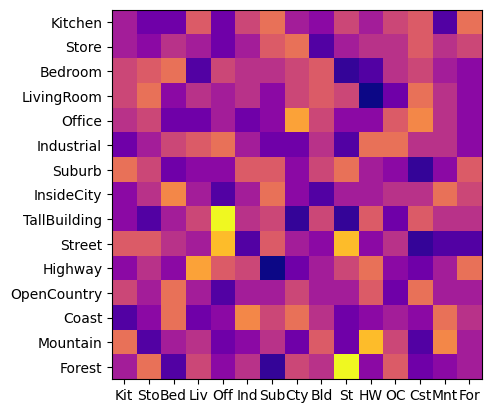
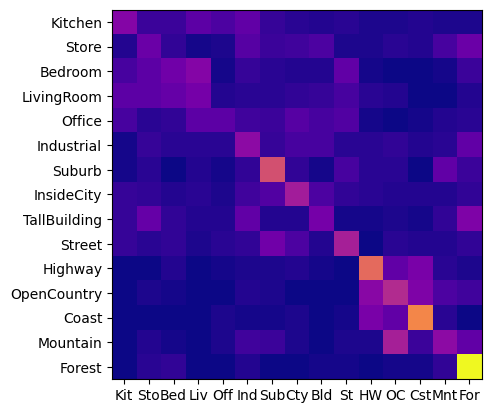
implmentation of KNN and get_bag_of_words

diff --git a/results_webpage/index.html b/results_webpage/index.html
@@ -36,7 +36,7 @@ h1 {
 <img src="confusion_matrix.png">
 
 <br>
-Accuracy (mean of diagonal of confusion matrix) is 0.074
+Accuracy (mean of diagonal of confusion matrix) is 0.309
 <p>
 
 <table border=0 cellpadding=4 cellspacing=1>
@@ -50,183 +50,183 @@ Accuracy (mean of diagonal of confusion matrix) is 0.074
 </tr>
 <tr>
 <td>Kitchen</td>
-<td>0.060</td>
-<td bgcolor=LightBlue><img src="thumbnails/Kitchen_image_0026.jpg" width=75 height=100></td>
-<td bgcolor=LightBlue><img src="thumbnails/Kitchen_image_0054.jpg" width=75 height=57></td>
-<td bgcolor=LightGreen><img src="thumbnails/Kitchen_image_0080.jpg" width=75 height=56></td>
-<td bgcolor=LightGreen><img src="thumbnails/Kitchen_image_0180.jpg" width=75 height=56></td>
-<td bgcolor=LightCoral><img src="thumbnails/Kitchen_image_0075.jpg" width=75 height=75><br><small>Mountain</small></td>
-<td bgcolor=LightCoral><img src="thumbnails/Kitchen_image_0078.jpg" width=75 height=75><br><small>Street</small></td>
-<td bgcolor=#FFBB55><img src="thumbnails/Kitchen_image_0022.jpg" width=75 height=100><br><small>Industrial</small></td>
-<td bgcolor=#FFBB55><img src="thumbnails/Kitchen_image_0029.jpg" width=75 height=100><br><small>Highway</small></td>
+<td>0.210</td>
+<td bgcolor=LightBlue><img src="thumbnails/Kitchen_image_0145.jpg" width=75 height=56></td>
+<td bgcolor=LightBlue><img src="thumbnails/Kitchen_image_0066.jpg" width=75 height=53></td>
+<td bgcolor=LightGreen><img src="thumbnails/Kitchen_image_0071.jpg" width=75 height=57></td>
+<td bgcolor=LightGreen><img src="thumbnails/Kitchen_image_0002.jpg" width=75 height=56></td>
+<td bgcolor=LightCoral><img src="thumbnails/Kitchen_image_0037.jpg" width=75 height=53><br><small>Office</small></td>
+<td bgcolor=LightCoral><img src="thumbnails/Kitchen_image_0062.jpg" width=75 height=75><br><small>Street</small></td>
+<td bgcolor=#FFBB55><img src="thumbnails/Kitchen_image_0104.jpg" width=75 height=49><br><small>Industrial</small></td>
+<td bgcolor=#FFBB55><img src="thumbnails/Kitchen_image_0183.jpg" width=75 height=56><br><small>LivingRoom</small></td>
 </tr>
 <tr>
 <td>Store</td>
-<td>0.050</td>
-<td bgcolor=LightBlue><img src="thumbnails/Store_image_0103.jpg" width=75 height=53></td>
-<td bgcolor=LightBlue><img src="thumbnails/Store_image_0128.jpg" width=75 height=56></td>
-<td bgcolor=LightGreen><img src="thumbnails/Store_image_0060.jpg" width=75 height=100></td>
-<td bgcolor=LightGreen><img src="thumbnails/Store_image_0107.jpg" width=75 height=57></td>
-<td bgcolor=LightCoral><img src="thumbnails/Store_image_0113.jpg" width=75 height=56><br><small>LivingRoom</small></td>
-<td bgcolor=LightCoral><img src="thumbnails/Store_image_0095.jpg" width=75 height=75><br><small>Coast</small></td>
-<td bgcolor=#FFBB55><img src="thumbnails/Store_image_0141.jpg" width=75 height=45><br><small>Highway</small></td>
-<td bgcolor=#FFBB55><img src="thumbnails/Store_image_0114.jpg" width=75 height=56><br><small>Highway</small></td>
+<td>0.160</td>
+<td bgcolor=LightBlue><img src="thumbnails/Store_image_0069.jpg" width=75 height=100></td>
+<td bgcolor=LightBlue><img src="thumbnails/Store_image_0253.jpg" width=75 height=50></td>
+<td bgcolor=LightGreen><img src="thumbnails/Store_image_0114.jpg" width=75 height=56></td>
+<td bgcolor=LightGreen><img src="thumbnails/Store_image_0085.jpg" width=75 height=70></td>
+<td bgcolor=LightCoral><img src="thumbnails/Store_image_0103.jpg" width=75 height=50><br><small>Suburb</small></td>
+<td bgcolor=LightCoral><img src="thumbnails/Store_image_0063.jpg" width=75 height=49><br><small>Bedroom</small></td>
+<td bgcolor=#FFBB55><img src="thumbnails/Store_image_0041.jpg" width=75 height=103><br><small>Forest</small></td>
+<td bgcolor=#FFBB55><img src="thumbnails/Store_image_0086.jpg" width=75 height=51><br><small>Industrial</small></td>
 </tr>
 <tr>
 <td>Bedroom</td>
-<td>0.100</td>
-<td bgcolor=LightBlue><img src="thumbnails/Bedroom_image_0187.jpg" width=75 height=50></td>
-<td bgcolor=LightBlue><img src="thumbnails/Bedroom_image_0184.jpg" width=75 height=56></td>
-<td bgcolor=LightGreen><img src="thumbnails/Bedroom_image_0029.jpg" width=75 height=42></td>
-<td bgcolor=LightGreen><img src="thumbnails/Bedroom_image_0095.jpg" width=75 height=56></td>
-<td bgcolor=LightCoral><img src="thumbnails/Bedroom_image_0096.jpg" width=75 height=75><br><small>TallBuilding</small></td>
-<td bgcolor=LightCoral><img src="thumbnails/Bedroom_image_0058.jpg" width=75 height=75><br><small>OpenCountry</small></td>
-<td bgcolor=#FFBB55><img src="thumbnails/Bedroom_image_0018.jpg" width=75 height=56><br><small>Store</small></td>
-<td bgcolor=#FFBB55><img src="thumbnails/Bedroom_image_0163.jpg" width=75 height=56><br><small>Kitchen</small></td>
+<td>0.170</td>
+<td bgcolor=LightBlue><img src="thumbnails/Bedroom_image_0211.jpg" width=75 height=50></td>
+<td bgcolor=LightBlue><img src="thumbnails/Bedroom_image_0094.jpg" width=75 height=49></td>
+<td bgcolor=LightGreen><img src="thumbnails/Bedroom_image_0170.jpg" width=75 height=61></td>
+<td bgcolor=LightGreen><img src="thumbnails/Bedroom_image_0144.jpg" width=75 height=56></td>
+<td bgcolor=LightCoral><img src="thumbnails/Bedroom_image_0029.jpg" width=75 height=55><br><small>Office</small></td>
+<td bgcolor=LightCoral><img src="thumbnails/Bedroom_image_0084.jpg" width=75 height=61><br><small>Store</small></td>
+<td bgcolor=#FFBB55><img src="thumbnails/Bedroom_image_0019.jpg" width=75 height=56><br><small>TallBuilding</small></td>
+<td bgcolor=#FFBB55><img src="thumbnails/Bedroom_image_0003.jpg" width=75 height=54><br><small>LivingRoom</small></td>
 </tr>
 <tr>
 <td>LivingRoom</td>
-<td>0.070</td>
-<td bgcolor=LightBlue><img src="thumbnails/LivingRoom_image_0006.jpg" width=75 height=50></td>
-<td bgcolor=LightBlue><img src="thumbnails/LivingRoom_image_0280.jpg" width=75 height=56></td>
-<td bgcolor=LightGreen><img src="thumbnails/LivingRoom_image_0074.jpg" width=75 height=56></td>
-<td bgcolor=LightGreen><img src="thumbnails/LivingRoom_image_0058.jpg" width=75 height=56></td>
-<td bgcolor=LightCoral><img src="thumbnails/LivingRoom_image_0038.jpg" width=75 height=75><br><small>TallBuilding</small></td>
-<td bgcolor=LightCoral><img src="thumbnails/LivingRoom_image_0125.jpg" width=75 height=75><br><small>OpenCountry</small></td>
-<td bgcolor=#FFBB55><img src="thumbnails/LivingRoom_image_0110.jpg" width=75 height=57><br><small>Coast</small></td>
-<td bgcolor=#FFBB55><img src="thumbnails/LivingRoom_image_0102.jpg" width=75 height=50><br><small>Suburb</small></td>
+<td>0.180</td>
+<td bgcolor=LightBlue><img src="thumbnails/LivingRoom_image_0085.jpg" width=75 height=50></td>
+<td bgcolor=LightBlue><img src="thumbnails/LivingRoom_image_0031.jpg" width=75 height=50></td>
+<td bgcolor=LightGreen><img src="thumbnails/LivingRoom_image_0131.jpg" width=75 height=60></td>
+<td bgcolor=LightGreen><img src="thumbnails/LivingRoom_image_0142.jpg" width=75 height=56></td>
+<td bgcolor=LightCoral><img src="thumbnails/LivingRoom_image_0176.jpg" width=75 height=100><br><small>Bedroom</small></td>
+<td bgcolor=LightCoral><img src="thumbnails/LivingRoom_image_0162.jpg" width=75 height=50><br><small>Bedroom</small></td>
+<td bgcolor=#FFBB55><img src="thumbnails/LivingRoom_image_0065.jpg" width=75 height=75><br><small>InsideCity</small></td>
+<td bgcolor=#FFBB55><img src="thumbnails/LivingRoom_image_0014.jpg" width=75 height=53><br><small>TallBuilding</small></td>
 </tr>
 <tr>
 <td>Office</td>
-<td>0.060</td>
-<td bgcolor=LightBlue><img src="thumbnails/Office_image_0212.jpg" width=75 height=54></td>
-<td bgcolor=LightBlue><img src="thumbnails/Office_image_0025.jpg" width=75 height=50></td>
-<td bgcolor=LightGreen><img src="thumbnails/Office_image_0020.jpg" width=75 height=54></td>
-<td bgcolor=LightGreen><img src="thumbnails/Office_image_0059.jpg" width=75 height=49></td>
-<td bgcolor=LightCoral><img src="thumbnails/Office_image_0140.jpg" width=75 height=75><br><small>Highway</small></td>
-<td bgcolor=LightCoral><img src="thumbnails/Office_image_0149.jpg" width=75 height=55><br><small>Industrial</small></td>
-<td bgcolor=#FFBB55><img src="thumbnails/Office_image_0057.jpg" width=75 height=54><br><small>Store</small></td>
-<td bgcolor=#FFBB55><img src="thumbnails/Office_image_0055.jpg" width=75 height=53><br><small>InsideCity</small></td>
+<td>0.130</td>
+<td bgcolor=LightBlue><img src="thumbnails/Office_image_0211.jpg" width=75 height=54></td>
+<td bgcolor=LightBlue><img src="thumbnails/Office_image_0167.jpg" width=75 height=53></td>
+<td bgcolor=LightGreen><img src="thumbnails/Office_image_0004.jpg" width=75 height=48></td>
+<td bgcolor=LightGreen><img src="thumbnails/Office_image_0027.jpg" width=75 height=54></td>
+<td bgcolor=LightCoral><img src="thumbnails/Office_image_0009.jpg" width=75 height=56><br><small>Kitchen</small></td>
+<td bgcolor=LightCoral><img src="thumbnails/Office_image_0086.jpg" width=75 height=75><br><small>Coast</small></td>
+<td bgcolor=#FFBB55><img src="thumbnails/Office_image_0079.jpg" width=75 height=46><br><small>Suburb</small></td>
+<td bgcolor=#FFBB55><img src="thumbnails/Office_image_0155.jpg" width=75 height=48><br><small>Kitchen</small></td>
 </tr>
 <tr>
 <td>Industrial</td>
-<td>0.060</td>
-<td bgcolor=LightBlue><img src="thumbnails/Industrial_image_0171.jpg" width=75 height=50></td>
-<td bgcolor=LightBlue><img src="thumbnails/Industrial_image_0260.jpg" width=75 height=54></td>
-<td bgcolor=LightGreen><img src="thumbnails/Industrial_image_0023.jpg" width=75 height=67></td>
-<td bgcolor=LightGreen><img src="thumbnails/Industrial_image_0040.jpg" width=75 height=42></td>
-<td bgcolor=LightCoral><img src="thumbnails/Industrial_image_0147.jpg" width=75 height=72><br><small>Kitchen</small></td>
-<td bgcolor=LightCoral><img src="thumbnails/Industrial_image_0006.jpg" width=75 height=75><br><small>Highway</small></td>
-<td bgcolor=#FFBB55><img src="thumbnails/Industrial_image_0108.jpg" width=75 height=56><br><small>Suburb</small></td>
-<td bgcolor=#FFBB55><img src="thumbnails/Industrial_image_0029.jpg" width=75 height=90><br><small>OpenCountry</small></td>
+<td>0.230</td>
+<td bgcolor=LightBlue><img src="thumbnails/Industrial_image_0136.jpg" width=75 height=56></td>
+<td bgcolor=LightBlue><img src="thumbnails/Industrial_image_0094.jpg" width=75 height=56></td>
+<td bgcolor=LightGreen><img src="thumbnails/Industrial_image_0089.jpg" width=75 height=51></td>
+<td bgcolor=LightGreen><img src="thumbnails/Industrial_image_0106.jpg" width=75 height=56></td>
+<td bgcolor=LightCoral><img src="thumbnails/Industrial_image_0133.jpg" width=75 height=75><br><small>Street</small></td>
+<td bgcolor=LightCoral><img src="thumbnails/Industrial_image_0100.jpg" width=75 height=75><br><small>InsideCity</small></td>
+<td bgcolor=#FFBB55><img src="thumbnails/Industrial_image_0121.jpg" width=75 height=48><br><small>Bedroom</small></td>
+<td bgcolor=#FFBB55><img src="thumbnails/Industrial_image_0125.jpg" width=75 height=124><br><small>Highway</small></td>
 </tr>
 <tr>
 <td>Suburb</td>
-<td>0.090</td>
-<td bgcolor=LightBlue><img src="thumbnails/Suburb_image_0076.jpg" width=75 height=50></td>
-<td bgcolor=LightBlue><img src="thumbnails/Suburb_image_0142.jpg" width=75 height=50></td>
-<td bgcolor=LightGreen><img src="thumbnails/Suburb_image_0108.jpg" width=75 height=50></td>
+<td>0.420</td>
+<td bgcolor=LightBlue><img src="thumbnails/Suburb_image_0073.jpg" width=75 height=50></td>
+<td bgcolor=LightBlue><img src="thumbnails/Suburb_image_0063.jpg" width=75 height=50></td>
+<td bgcolor=LightGreen><img src="thumbnails/Suburb_image_0067.jpg" width=75 height=50></td>
 <td bgcolor=LightGreen><img src="thumbnails/Suburb_image_0117.jpg" width=75 height=50></td>
-<td bgcolor=LightCoral><img src="thumbnails/Suburb_image_0118.jpg" width=75 height=75><br><small>OpenCountry</small></td>
-<td bgcolor=LightCoral><img src="thumbnails/Suburb_image_0079.jpg" width=75 height=75><br><small>InsideCity</small></td>
-<td bgcolor=#FFBB55><img src="thumbnails/Suburb_image_0062.jpg" width=75 height=50><br><small>LivingRoom</small></td>
-<td bgcolor=#FFBB55><img src="thumbnails/Suburb_image_0009.jpg" width=75 height=50><br><small>Office</small></td>
+<td bgcolor=LightCoral><img src="thumbnails/Suburb_image_0102.jpg" width=75 height=75><br><small>TallBuilding</small></td>
+<td bgcolor=LightCoral><img src="thumbnails/Suburb_image_0156.jpg" width=75 height=57><br><small>Bedroom</small></td>
+<td bgcolor=#FFBB55><img src="thumbnails/Suburb_image_0022.jpg" width=75 height=50><br><small>InsideCity</small></td>
+<td bgcolor=#FFBB55><img src="thumbnails/Suburb_image_0079.jpg" width=75 height=50><br><small>OpenCountry</small></td>
 </tr>
 <tr>
 <td>InsideCity</td>
-<td>0.050</td>
-<td bgcolor=LightBlue><img src="thumbnails/InsideCity_image_0112.jpg" width=75 height=75></td>
-<td bgcolor=LightBlue><img src="thumbnails/InsideCity_image_0172.jpg" width=75 height=75></td>
-<td bgcolor=LightGreen><img src="thumbnails/InsideCity_image_0096.jpg" width=75 height=75></td>
-<td bgcolor=LightGreen><img src="thumbnails/InsideCity_image_0043.jpg" width=75 height=75></td>
-<td bgcolor=LightCoral><img src="thumbnails/InsideCity_image_0083.jpg" width=75 height=56><br><small>Store</small></td>
-<td bgcolor=LightCoral><img src="thumbnails/InsideCity_image_0073.jpg" width=75 height=56><br><small>Store</small></td>
-<td bgcolor=#FFBB55><img src="thumbnails/InsideCity_image_0056.jpg" width=75 height=75><br><small>Store</small></td>
-<td bgcolor=#FFBB55><img src="thumbnails/InsideCity_image_0094.jpg" width=75 height=75><br><small>Coast</small></td>
+<td>0.280</td>
+<td bgcolor=LightBlue><img src="thumbnails/InsideCity_image_0278.jpg" width=75 height=75></td>
+<td bgcolor=LightBlue><img src="thumbnails/InsideCity_image_0279.jpg" width=75 height=75></td>
+<td bgcolor=LightGreen><img src="thumbnails/InsideCity_image_0055.jpg" width=75 height=75></td>
+<td bgcolor=LightGreen><img src="thumbnails/InsideCity_image_0004.jpg" width=75 height=75></td>
+<td bgcolor=LightCoral><img src="thumbnails/InsideCity_image_0147.jpg" width=75 height=75><br><small>Street</small></td>
+<td bgcolor=LightCoral><img src="thumbnails/InsideCity_image_0127.jpg" width=75 height=75><br><small>Street</small></td>
+<td bgcolor=#FFBB55><img src="thumbnails/InsideCity_image_0094.jpg" width=75 height=75><br><small>Suburb</small></td>
+<td bgcolor=#FFBB55><img src="thumbnails/InsideCity_image_0061.jpg" width=75 height=75><br><small>Industrial</small></td>
 </tr>
 <tr>
 <td>TallBuilding</td>
-<td>0.080</td>
-<td bgcolor=LightBlue><img src="thumbnails/TallBuilding_image_0124.jpg" width=75 height=75></td>
-<td bgcolor=LightBlue><img src="thumbnails/TallBuilding_image_0194.jpg" width=75 height=75></td>
-<td bgcolor=LightGreen><img src="thumbnails/TallBuilding_image_0088.jpg" width=75 height=75></td>
-<td bgcolor=LightGreen><img src="thumbnails/TallBuilding_image_0013.jpg" width=75 height=75></td>
-<td bgcolor=LightCoral><img src="thumbnails/TallBuilding_image_0117.jpg" width=75 height=75><br><small>Forest</small></td>
-<td bgcolor=LightCoral><img src="thumbnails/TallBuilding_image_0049.jpg" width=75 height=56><br><small>Bedroom</small></td>
-<td bgcolor=#FFBB55><img src="thumbnails/TallBuilding_image_0015.jpg" width=75 height=75><br><small>Coast</small></td>
-<td bgcolor=#FFBB55><img src="thumbnails/TallBuilding_image_0002.jpg" width=75 height=75><br><small>Kitchen</small></td>
+<td>0.180</td>
+<td bgcolor=LightBlue><img src="thumbnails/TallBuilding_image_0188.jpg" width=75 height=75></td>
+<td bgcolor=LightBlue><img src="thumbnails/TallBuilding_image_0120.jpg" width=75 height=75></td>
+<td bgcolor=LightGreen><img src="thumbnails/TallBuilding_image_0128.jpg" width=75 height=75></td>
+<td bgcolor=LightGreen><img src="thumbnails/TallBuilding_image_0039.jpg" width=75 height=75></td>
+<td bgcolor=LightCoral><img src="thumbnails/TallBuilding_image_0052.jpg" width=75 height=54><br><small>Industrial</small></td>
+<td bgcolor=LightCoral><img src="thumbnails/TallBuilding_image_0001.jpg" width=75 height=84><br><small>Industrial</small></td>
+<td bgcolor=#FFBB55><img src="thumbnails/TallBuilding_image_0075.jpg" width=75 height=75><br><small>Mountain</small></td>
+<td bgcolor=#FFBB55><img src="thumbnails/TallBuilding_image_0025.jpg" width=75 height=75><br><small>Kitchen</small></td>
 </tr>
 <tr>
 <td>Street</td>
-<td>0.130</td>
-<td bgcolor=LightBlue><img src="thumbnails/Street_image_0152.jpg" width=75 height=75></td>
-<td bgcolor=LightBlue><img src="thumbnails/Street_image_0155.jpg" width=75 height=75></td>
-<td bgcolor=LightGreen><img src="thumbnails/Street_image_0142.jpg" width=75 height=75></td>
-<td bgcolor=LightGreen><img src="thumbnails/Street_image_0064.jpg" width=75 height=75></td>
-<td bgcolor=LightCoral><img src="thumbnails/Street_image_0057.jpg" width=75 height=50><br><small>Suburb</small></td>
-<td bgcolor=LightCoral><img src="thumbnails/Street_image_0143.jpg" width=75 height=56><br><small>LivingRoom</small></td>
-<td bgcolor=#FFBB55><img src="thumbnails/Street_image_0106.jpg" width=75 height=75><br><small>TallBuilding</small></td>
-<td bgcolor=#FFBB55><img src="thumbnails/Street_image_0053.jpg" width=75 height=75><br><small>Suburb</small></td>
+<td>0.290</td>
+<td bgcolor=LightBlue><img src="thumbnails/Street_image_0255.jpg" width=75 height=75></td>
+<td bgcolor=LightBlue><img src="thumbnails/Street_image_0167.jpg" width=75 height=75></td>
+<td bgcolor=LightGreen><img src="thumbnails/Street_image_0026.jpg" width=75 height=75></td>
+<td bgcolor=LightGreen><img src="thumbnails/Street_image_0121.jpg" width=75 height=75></td>
+<td bgcolor=LightCoral><img src="thumbnails/Street_image_0059.jpg" width=75 height=52><br><small>Bedroom</small></td>
+<td bgcolor=LightCoral><img src="thumbnails/Street_image_0027.jpg" width=75 height=75><br><small>Mountain</small></td>
+<td bgcolor=#FFBB55><img src="thumbnails/Street_image_0079.jpg" width=75 height=75><br><small>Suburb</small></td>
+<td bgcolor=#FFBB55><img src="thumbnails/Street_image_0135.jpg" width=75 height=75><br><small>Kitchen</small></td>
 </tr>
 <tr>
 <td>Highway</td>
-<td>0.100</td>
-<td bgcolor=LightBlue><img src="thumbnails/Highway_image_0242.jpg" width=75 height=75></td>
-<td bgcolor=LightBlue><img src="thumbnails/Highway_image_0181.jpg" width=75 height=75></td>
-<td bgcolor=LightGreen><img src="thumbnails/Highway_image_0053.jpg" width=75 height=75></td>
-<td bgcolor=LightGreen><img src="thumbnails/Highway_image_0100.jpg" width=75 height=75></td>
-<td bgcolor=LightCoral><img src="thumbnails/Highway_image_0017.jpg" width=75 height=75><br><small>OpenCountry</small></td>
-<td bgcolor=LightCoral><img src="thumbnails/Highway_image_0059.jpg" width=75 height=51><br><small>Industrial</small></td>
-<td bgcolor=#FFBB55><img src="thumbnails/Highway_image_0020.jpg" width=75 height=75><br><small>Coast</small></td>
-<td bgcolor=#FFBB55><img src="thumbnails/Highway_image_0110.jpg" width=75 height=75><br><small>LivingRoom</small></td>
+<td>0.490</td>
+<td bgcolor=LightBlue><img src="thumbnails/Highway_image_0159.jpg" width=75 height=75></td>
+<td bgcolor=LightBlue><img src="thumbnails/Highway_image_0224.jpg" width=75 height=75></td>
+<td bgcolor=LightGreen><img src="thumbnails/Highway_image_0087.jpg" width=75 height=75></td>
+<td bgcolor=LightGreen><img src="thumbnails/Highway_image_0040.jpg" width=75 height=75></td>
+<td bgcolor=LightCoral><img src="thumbnails/Highway_image_0035.jpg" width=75 height=100><br><small>Kitchen</small></td>
+<td bgcolor=LightCoral><img src="thumbnails/Highway_image_0122.jpg" width=75 height=75><br><small>OpenCountry</small></td>
+<td bgcolor=#FFBB55><img src="thumbnails/Highway_image_0142.jpg" width=75 height=75><br><small>Coast</small></td>
+<td bgcolor=#FFBB55><img src="thumbnails/Highway_image_0031.jpg" width=75 height=75><br><small>InsideCity</small></td>
 </tr>
 <tr>
 <td>OpenCountry</td>
-<td>0.040</td>
-<td bgcolor=LightBlue><img src="thumbnails/OpenCountry_image_0273.jpg" width=75 height=75></td>
-<td bgcolor=LightBlue><img src="thumbnails/OpenCountry_image_0214.jpg" width=75 height=75></td>
-<td bgcolor=LightGreen><img src="thumbnails/OpenCountry_image_0039.jpg" width=75 height=75></td>
-<td bgcolor=LightGreen><img src="thumbnails/OpenCountry_image_0045.jpg" width=75 height=75></td>
-<td bgcolor=LightCoral><img src="thumbnails/OpenCountry_image_0050.jpg" width=75 height=50><br><small>Suburb</small></td>
-<td bgcolor=LightCoral><img src="thumbnails/OpenCountry_image_0111.jpg" width=75 height=75><br><small>TallBuilding</small></td>
-<td bgcolor=#FFBB55><img src="thumbnails/OpenCountry_image_0119.jpg" width=75 height=75><br><small>Industrial</small></td>
-<td bgcolor=#FFBB55><img src="thumbnails/OpenCountry_image_0044.jpg" width=75 height=75><br><small>Industrial</small></td>
+<td>0.320</td>
+<td bgcolor=LightBlue><img src="thumbnails/OpenCountry_image_0271.jpg" width=75 height=75></td>
+<td bgcolor=LightBlue><img src="thumbnails/OpenCountry_image_0363.jpg" width=75 height=75></td>
+<td bgcolor=LightGreen><img src="thumbnails/OpenCountry_image_0073.jpg" width=75 height=75></td>
+<td bgcolor=LightGreen><img src="thumbnails/OpenCountry_image_0037.jpg" width=75 height=75></td>
+<td bgcolor=LightCoral><img src="thumbnails/OpenCountry_image_0133.jpg" width=75 height=75><br><small>Highway</small></td>
+<td bgcolor=LightCoral><img src="thumbnails/OpenCountry_image_0105.jpg" width=75 height=75><br><small>Coast</small></td>
+<td bgcolor=#FFBB55><img src="thumbnails/OpenCountry_image_0019.jpg" width=75 height=75><br><small>Highway</small></td>
+<td bgcolor=#FFBB55><img src="thumbnails/OpenCountry_image_0041.jpg" width=75 height=75><br><small>Forest</small></td>
 </tr>
 <tr>
 <td>Coast</td>
-<td>0.050</td>
-<td bgcolor=LightBlue><img src="thumbnails/Coast_image_0069.jpg" width=75 height=75></td>
-<td bgcolor=LightBlue><img src="thumbnails/Coast_image_0034.jpg" width=75 height=75></td>
-<td bgcolor=LightGreen><img src="thumbnails/Coast_image_0110.jpg" width=75 height=75></td>
-<td bgcolor=LightGreen><img src="thumbnails/Coast_image_0092.jpg" width=75 height=75></td>
-<td bgcolor=LightCoral><img src="thumbnails/Coast_image_0168.jpg" width=75 height=51><br><small>Kitchen</small></td>
-<td bgcolor=LightCoral><img src="thumbnails/Coast_image_0015.jpg" width=75 height=75><br><small>TallBuilding</small></td>
-<td bgcolor=#FFBB55><img src="thumbnails/Coast_image_0025.jpg" width=75 height=75><br><small>Street</small></td>
-<td bgcolor=#FFBB55><img src="thumbnails/Coast_image_0011.jpg" width=75 height=75><br><small>Bedroom</small></td>
+<td>0.560</td>
+<td bgcolor=LightBlue><img src="thumbnails/Coast_image_0320.jpg" width=75 height=75></td>
+<td bgcolor=LightBlue><img src="thumbnails/Coast_image_0048.jpg" width=75 height=75></td>
+<td bgcolor=LightGreen><img src="thumbnails/Coast_image_0012.jpg" width=75 height=75></td>
+<td bgcolor=LightGreen><img src="thumbnails/Coast_image_0067.jpg" width=75 height=75></td>
+<td bgcolor=LightCoral><img src="thumbnails/Coast_image_0090.jpg" width=75 height=75><br><small>Highway</small></td>
+<td bgcolor=LightCoral><img src="thumbnails/Coast_image_0042.jpg" width=75 height=75><br><small>InsideCity</small></td>
+<td bgcolor=#FFBB55><img src="thumbnails/Coast_image_0026.jpg" width=75 height=75><br><small>Highway</small></td>
+<td bgcolor=#FFBB55><img src="thumbnails/Coast_image_0030.jpg" width=75 height=75><br><small>Highway</small></td>
 </tr>
 <tr>
 <td>Mountain</td>
-<td>0.110</td>
-<td bgcolor=LightBlue><img src="thumbnails/Mountain_image_0116.jpg" width=75 height=75></td>
-<td bgcolor=LightBlue><img src="thumbnails/Mountain_image_0250.jpg" width=75 height=75></td>
-<td bgcolor=LightGreen><img src="thumbnails/Mountain_image_0104.jpg" width=75 height=75></td>
+<td>0.230</td>
+<td bgcolor=LightBlue><img src="thumbnails/Mountain_image_0199.jpg" width=75 height=75></td>
+<td bgcolor=LightBlue><img src="thumbnails/Mountain_image_0345.jpg" width=75 height=75></td>
+<td bgcolor=LightGreen><img src="thumbnails/Mountain_image_0015.jpg" width=75 height=75></td>
 <td bgcolor=LightGreen><img src="thumbnails/Mountain_image_0036.jpg" width=75 height=75></td>
-<td bgcolor=LightCoral><img src="thumbnails/Mountain_image_0033.jpg" width=75 height=75><br><small>InsideCity</small></td>
-<td bgcolor=LightCoral><img src="thumbnails/Mountain_image_0129.jpg" width=75 height=75><br><small>InsideCity</small></td>
-<td bgcolor=#FFBB55><img src="thumbnails/Mountain_image_0021.jpg" width=75 height=75><br><small>TallBuilding</small></td>
-<td bgcolor=#FFBB55><img src="thumbnails/Mountain_image_0048.jpg" width=75 height=75><br><small>TallBuilding</small></td>
+<td bgcolor=LightCoral><img src="thumbnails/Mountain_image_0016.jpg" width=75 height=75><br><small>OpenCountry</small></td>
+<td bgcolor=LightCoral><img src="thumbnails/Mountain_image_0005.jpg" width=75 height=75><br><small>OpenCountry</small></td>
+<td bgcolor=#FFBB55><img src="thumbnails/Mountain_image_0041.jpg" width=75 height=75><br><small>Coast</small></td>
+<td bgcolor=#FFBB55><img src="thumbnails/Mountain_image_0011.jpg" width=75 height=75><br><small>Suburb</small></td>
 </tr>
 <tr>
 <td>Forest</td>
-<td>0.060</td>
-<td bgcolor=LightBlue><img src="thumbnails/Forest_image_0279.jpg" width=75 height=75></td>
-<td bgcolor=LightBlue><img src="thumbnails/Forest_image_0006.jpg" width=75 height=75></td>
-<td bgcolor=LightGreen><img src="thumbnails/Forest_image_0127.jpg" width=75 height=75></td>
-<td bgcolor=LightGreen><img src="thumbnails/Forest_image_0069.jpg" width=75 height=75></td>
-<td bgcolor=LightCoral><img src="thumbnails/Forest_image_0055.jpg" width=75 height=75><br><small>InsideCity</small></td>
-<td bgcolor=LightCoral><img src="thumbnails/Forest_image_0065.jpg" width=75 height=50><br><small>Suburb</small></td>
-<td bgcolor=#FFBB55><img src="thumbnails/Forest_image_0139.jpg" width=75 height=75><br><small>Suburb</small></td>
-<td bgcolor=#FFBB55><img src="thumbnails/Forest_image_0065.jpg" width=75 height=75><br><small>Street</small></td>
+<td>0.790</td>
+<td bgcolor=LightBlue><img src="thumbnails/Forest_image_0323.jpg" width=75 height=75></td>
+<td bgcolor=LightBlue><img src="thumbnails/Forest_image_0233.jpg" width=75 height=75></td>
+<td bgcolor=LightGreen><img src="thumbnails/Forest_image_0109.jpg" width=75 height=75></td>
+<td bgcolor=LightGreen><img src="thumbnails/Forest_image_0022.jpg" width=75 height=75></td>
+<td bgcolor=LightCoral><img src="thumbnails/Forest_image_0047.jpg" width=75 height=75><br><small>TallBuilding</small></td>
+<td bgcolor=LightCoral><img src="thumbnails/Forest_image_0147.jpg" width=75 height=56><br><small>Store</small></td>
+<td bgcolor=#FFBB55><img src="thumbnails/Forest_image_0131.jpg" width=75 height=75><br><small>Mountain</small></td>
+<td bgcolor=#FFBB55><img src="thumbnails/Forest_image_0036.jpg" width=75 height=75><br><small>Bedroom</small></td>
 </tr>
 <tr>
 <th>Category name</th>

diff --git a/code/student.py b/code/student.py
@@ -15,6 +15,8 @@ import imageio
 import numpy as np
 from skimage import color, feature
 from scipy.spatial.distance import cdist
+from scipy.spatial.distance import cdist
+from scipy.stats import mode
 
 def get_tiny_images(image_paths):
     """
@@ -352,6 +354,23 @@ def nearest_neighbor_classify(train_image_feats, train_labels, test_image_feats)
     Useful functions:
         scipy.spatial.distance.cdist, np.argsort, scipy.stats.mode
     """
+    k = 1
+
+    # Gets the distance between each test image feature and each train image feature
+    # e.g., cdist
+    distances = cdist(test_image_feats, train_image_feats, 'euclidean')
+
+    # Find the k closest features to each test image feature in euclidean space
+    k_nearest_labels = np.take(train_labels, distances.argsort()[:, :k])
+
+    # Determine the mode (most common) label of those k features
+    mode_labels = mode(k_nearest_labels, axis=1)
+
+    # Store the predicted labels in a list
+    predicted_labels = mode_labels.mode.squeeze().tolist()
+
+    return predicted_labels
+
 
     k = 1
 
